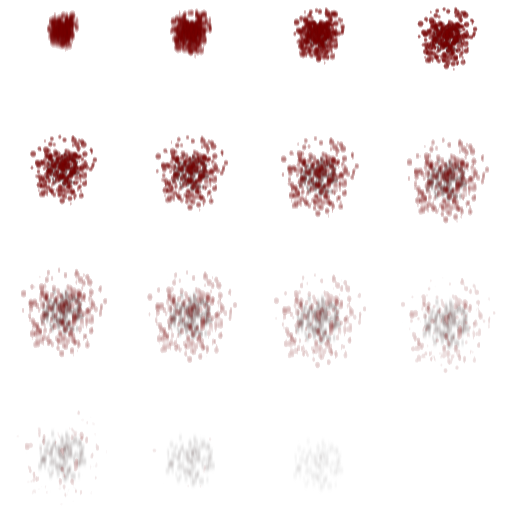
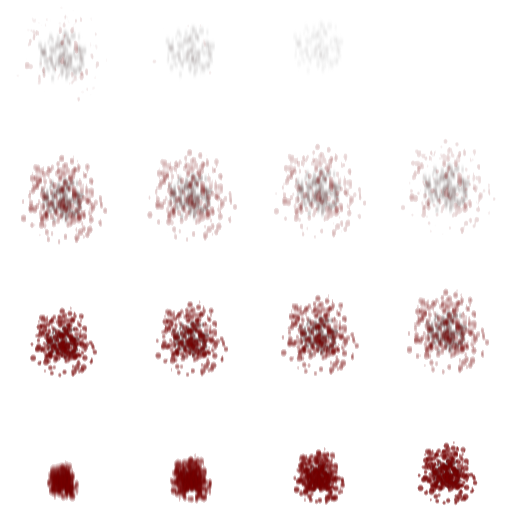
Fixed particles

diff --git a/src/enemy_entity.cpp b/src/enemy_entity.cpp
@@ -16,7 +16,7 @@ sEnemyEntity::sEnemyEntity() {
         }
     }
 
-    blood = sAnimationParticles(Texture::Get("data/particles/blood_hit.png"), 4, 4, 2.7f, 13, 0.25);
+    blood = sAnimationParticles(Texture::Get("data/particles/blood_hit.png"), 4, 4, 2.0f, 13, 0.25);
 
     animations[STOPPED] = Animation::Get("data/animations/animations_zombie_idle.skanim");
     animations[ROAM] = Animation::Get("data/animations/animations_walking_zombie.skanim"); 
@@ -44,7 +44,6 @@ void sEnemyEntity::update(float elapsed_time, sGameMap &map, Vector3 player_pos)
         if (angle < 60.f && enemy_player_distance <= 0.7f) {
             // If it is facing to the player and its near, attack him
             state[i] = ATTACK;
-            //std::cout << "atack" << std::endl;
         } else if (angle < 60.f && enemy_player_distance <= 20.0f) {
             // If it is in the eyesight of the player and it is
             float dist = map.raycast_from_point_to_point(enemy_pos_2d, player_2d_pos, 20.f);
@@ -58,8 +57,6 @@ void sEnemyEntity::update(float elapsed_time, sGameMap &map, Vector3 player_pos)
 
         Vector3 move_direction = Vector3(0.f, 0.f, 0.f);
         Vector2 new_pos = Vector2(0.f, 0.f);
-
-        //std::cout << (STOPPED == state[i]) << std::endl;
 
         if (state[i] == ROAM) {
             Vector2 next_pos;
@@ -100,7 +97,7 @@ void sEnemyEntity::update(float elapsed_time, sGameMap &map, Vector3 player_pos)
         // Apply kinetic changes
         kinetic_elems[i].speed = kinetic_elems[i].speed + (move_direction - kinetic_elems[i].speed) * elapsed_time;
         kinetic_elems[i].position = kinetic_elems[i].position + (move_direction * elapsed_time);
-        std::cout << kinetic_elems[i].speed.length()  / ENEMY_RUN_SPEED << " " << kinetic_elems[i].speed.length() / ENEMY_ROAM_SPEED<< std::endl;
+        //std::cout << kinetic_elems[i].speed.length()  / ENEMY_RUN_SPEED << " " << kinetic_elems[i].speed.length() / ENEMY_ROAM_SPEED<< std::endl;
         
         float tmp_angle = acos( clamp(enemy_facing.dot(new_pos), -1.0f, 1.0f) );
         kinetic_elems[i].angle += (tmp_angle - kinetic_elems[i].angle) * elapsed_time;
@@ -182,6 +179,4 @@ void sEnemyEntity::testBulletCollisions(sBulletEntity &bullet_controller) {
             }
         }
     }
-
-    //return false;
 }

diff --git a/src/game_player.cpp b/src/game_player.cpp
@@ -23,7 +23,7 @@ sPlayer::sPlayer(Vector3 start_pos) {
     animations[STANDING] = Animation::Get("data/animations/animations_idle.skanim");
     animations[RUNNING] = Animation::Get("data/animations/animations_walking.skanim"); 
 
-    muzzle_flash = sAnimationParticles(Texture::Get("data/particles/fire_particle.png"), 8, 8, 1.0f, 60, MUZZLE_FLASH_DURATION);  
+    muzzle_flash = sAnimationParticles(Texture::Get("data/particles/fire_particle.png"), 8, 8, 0.8f, 40, MUZZLE_FLASH_DURATION);  
 }
 
 sPlayer::sPlayer() {
@@ -43,7 +43,7 @@ sPlayer::sPlayer() {
 
     animations[THIRD_PERSON] = Animation::Get("data/animations/animations_idle.skanim");
 
-    muzzle_flash = sAnimationParticles(Texture::Get("data/particles/fire_particle.png"), 8, 8, 1.0f, 60, MUZZLE_FLASH_DURATION);  
+    muzzle_flash = sAnimationParticles(Texture::Get("data/particles/fire_particle.png"), 8, 8, 0.8f, 40, MUZZLE_FLASH_DURATION);  
 }
 
 void sPlayer::get_camera(Camera *cam) {
@@ -133,7 +133,7 @@ void sPlayer::shoot_animation() {
 
     has_shot_on_frame = true;
 
-    muzzle_flash.add_instance(position + (direction * 1.5f) + Vector3(0.0f, 2.f, 0.0f));
+    muzzle_flash.add_instance(position + (direction * 2.0f) + Vector3(0.0f, 2.2f, 0.0f));
 }
 
 void sPlayer::update(float elapsed_time) {
